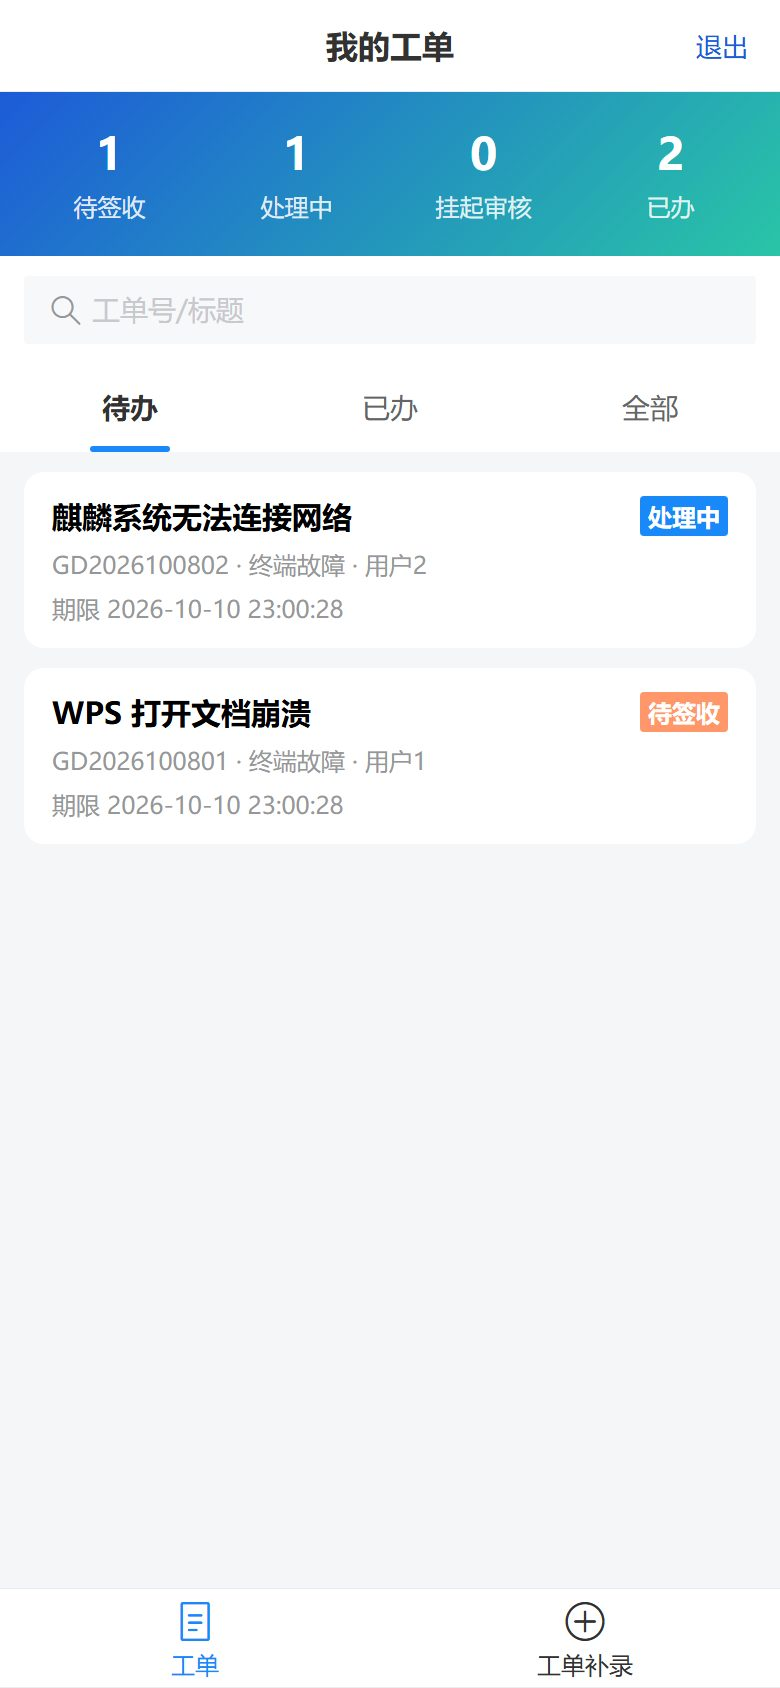
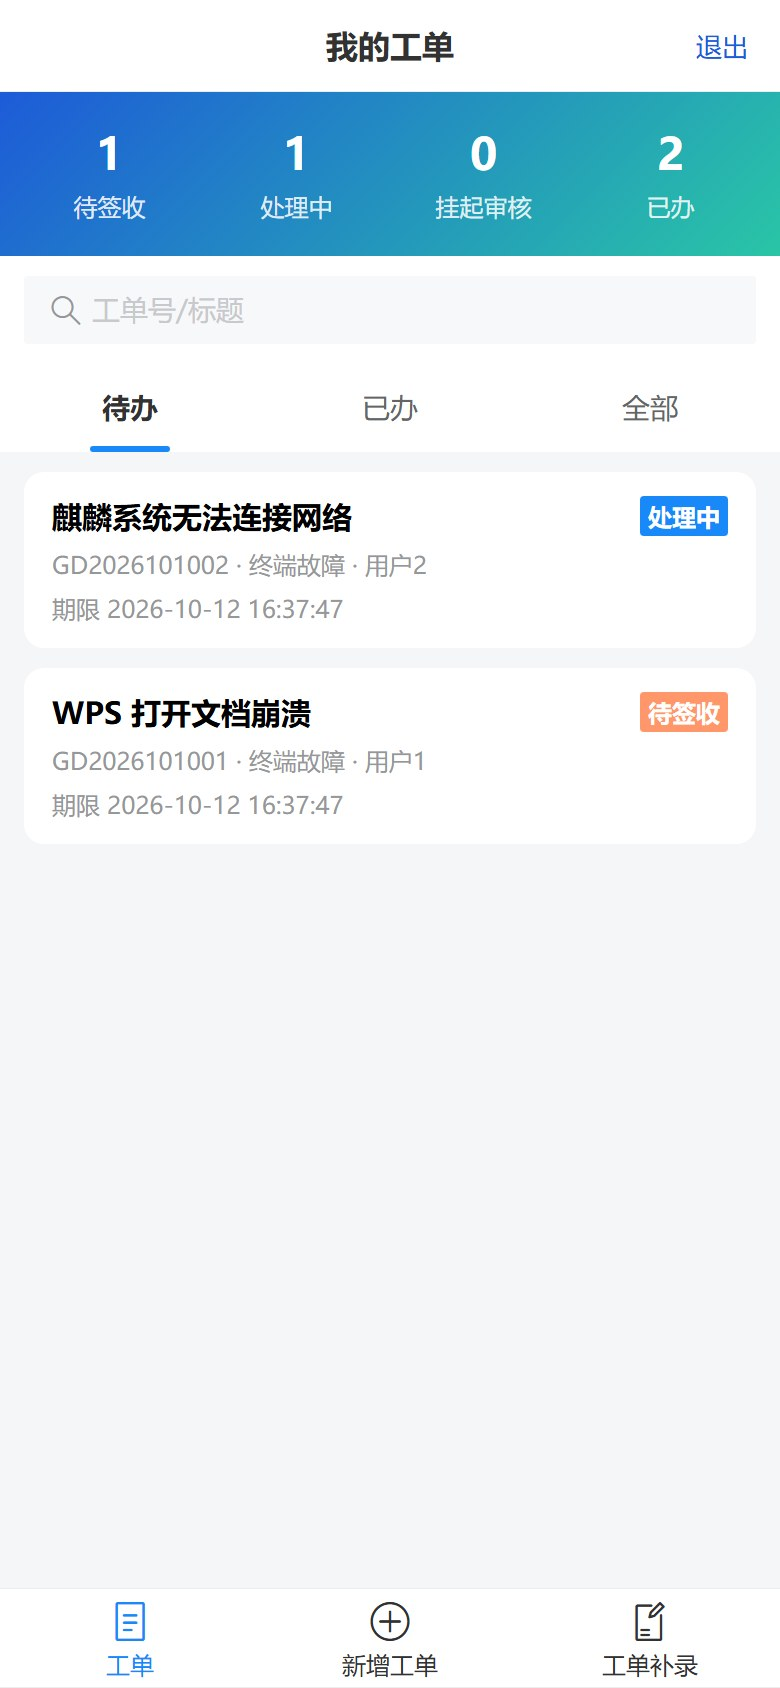
用户操作手册补充客户端截图，更新移动端截图
- 第 16 章桌面客户端新增 9 张截图（Windows 版，演示数据）
- 移动端更新“我的工单”截图，新增“新增工单”截图
- 文字随新界面调整（勾选 -> 开关）

diff --git a/docs/用户操作手册.md b/docs/用户操作手册.md
@@ -701,6 +701,8 @@
 
 反馈期限默认为登记后 48 小时，工单来源记为“移动登记”。
 
+<img src="images/manual/48_h5_create.jpg" width="300" alt="新增工单">
+
 ### 15.5 工单补录
 
 已解决但未登记的问题，点击底部“工单补录”，填写问题、描述、分类、报修人、电话、地点、设备、处理结果和备注，点击“提交补录”。补录的工单直接办结。
@@ -711,7 +713,7 @@
 
 ## 16. 桌面客户端
 
-> 本章为终端用户使用说明。客户端界面截图建议在实际信创终端（麒麟 / 统信）上补充。
+> 本章为终端用户使用说明。本章截图取自 Windows 版客户端并使用演示数据；麒麟 / 统信等信创终端上的布局和操作相同，字体和窗口边框随系统略有差异。
 
 ### 16.1 启动与界面
 
@@ -732,10 +734,14 @@
 2. 在“垃圾分类”树中查看各类垃圾的大小，双击类别切换勾选；右键类别可打开详细信息窗口查看具体文件；
 3. 点击“一键清理”。需要管理员权限的项目（如 APT 缓存、/var/log）会弹出系统授权窗口，输入本机密码即可。
 
+![垃圾清理](images/manual/49_client_junk.jpg)
+
 **内存加速**：
 
 1. 上方实时显示 CPU、内存、网络、磁盘使用曲线，下方为进程列表，可在“排序”中选择按 CPU、内存、网络或磁盘排序；
 2. 点击“一键优化闲置进程”，系统列出长时间无活动的进程，确认后结束；也可选中进程后点击“结束选中进程”。系统进程、浏览器、办公软件、安全软件等不会被列为闲置进程。
+
+![内存加速](images/manual/50_client_process.jpg)
 
 **大文件检索**：
 
@@ -743,11 +749,15 @@
 2. 列表显示文件名、大小、更新时间，底部汇总文件数、总大小和按类型统计；
 3. 勾选或“全选”后点击“删除选中”（会二次确认），也可“打开所在目录”。
 
+![大文件检索](images/manual/51_client_bigfile.jpg)
+
 ### 16.3 设备监测
 
 - **配件信息**：显示本机 CPU、内存、硬盘、操作系统、品牌、型号、序列号等，以及是否信创终端、双系统检测结果；点击“重新采集并上报”立即同步；
 - **配件更换记录**：本机的配件变更历史；
 - **违规 / 异常预警**：与本机相关的预警。
+
+![设备监测](images/manual/52_client_device.jpg)
 
 配件发生变化时，客户端会弹出“配件更换提醒”，并自动上报管理端。
 
@@ -758,21 +768,29 @@
 3. 输入问题后点击“发送”，回答逐字显示，可点击“暂停”中断；点击“新会话”开始新的话题；
 4. 本地知识问答模式下，可点击“上传私有文档”上传 PDF、Word、TXT 等文件到个人知识库，之后基于这些文档提问，回答下方显示引用来源。
 
+![智能问答](images/manual/53_client_chat.jpg)
+
 > 描述电脑故障并表示需要报修时，助手会询问设备、现象、地点、电话，并自动生成报修工单。
 
 ### 16.5 合同智审
 
-1. 点击“上传合同（PDF/OFD）”选择合同文件；勾选“大模型增强”可用大模型补充要素提取；
+1. 点击“上传合同（PDF/OFD）”选择合同文件；打开“大模型增强”开关可用大模型补充要素提取；
 2. 上传后自动审查，点击“刷新列表”查看状态；
 3. 选中合同，查看“合规性研判”（不合规项标红并给出提醒）、“要素提取”和“差异提示”。
+
+![合同智审](images/manual/54_client_contract.jpg)
 
 ### 16.6 消息中心
 
 查看管理员推送的通知消息。新消息到达时屏幕右下角弹窗提醒，点击“查看”进入消息中心。
 
+![消息中心](images/manual/55_client_message.jpg)
+
 ### 16.7 软件中心
 
 列出管理员上架的常用软件，选中后点击“下载并安装”；点击“刷新”获取最新列表。
+
+![软件中心](images/manual/56_client_software.jpg)
 
 ### 16.8 设置
 
@@ -781,10 +799,12 @@
 | 服务器地址 | 管理员提供的服务端地址，如 `http://10.0.0.10:8000` |
 | 客户端接入密钥 | 管理员设置了接入密钥时填写 |
 | 使用人、部门 | 用于管理端统计 |
-| 本机为云桌面用户端、云桌面服务端名称 | 云桌面终端勾选并填写 |
+| 本机为云桌面用户端、云桌面服务端名称 | 云桌面终端打开开关并填写 |
 | 显示桌面悬浮助手 | 是否显示悬浮助手 |
 
 修改后点击“保存”。页面下方显示设备 ID、客户端版本和配置文件位置，报修时可提供给运维人员。
+
+![设置](images/manual/57_client_settings.jpg)
 
 ---
 
